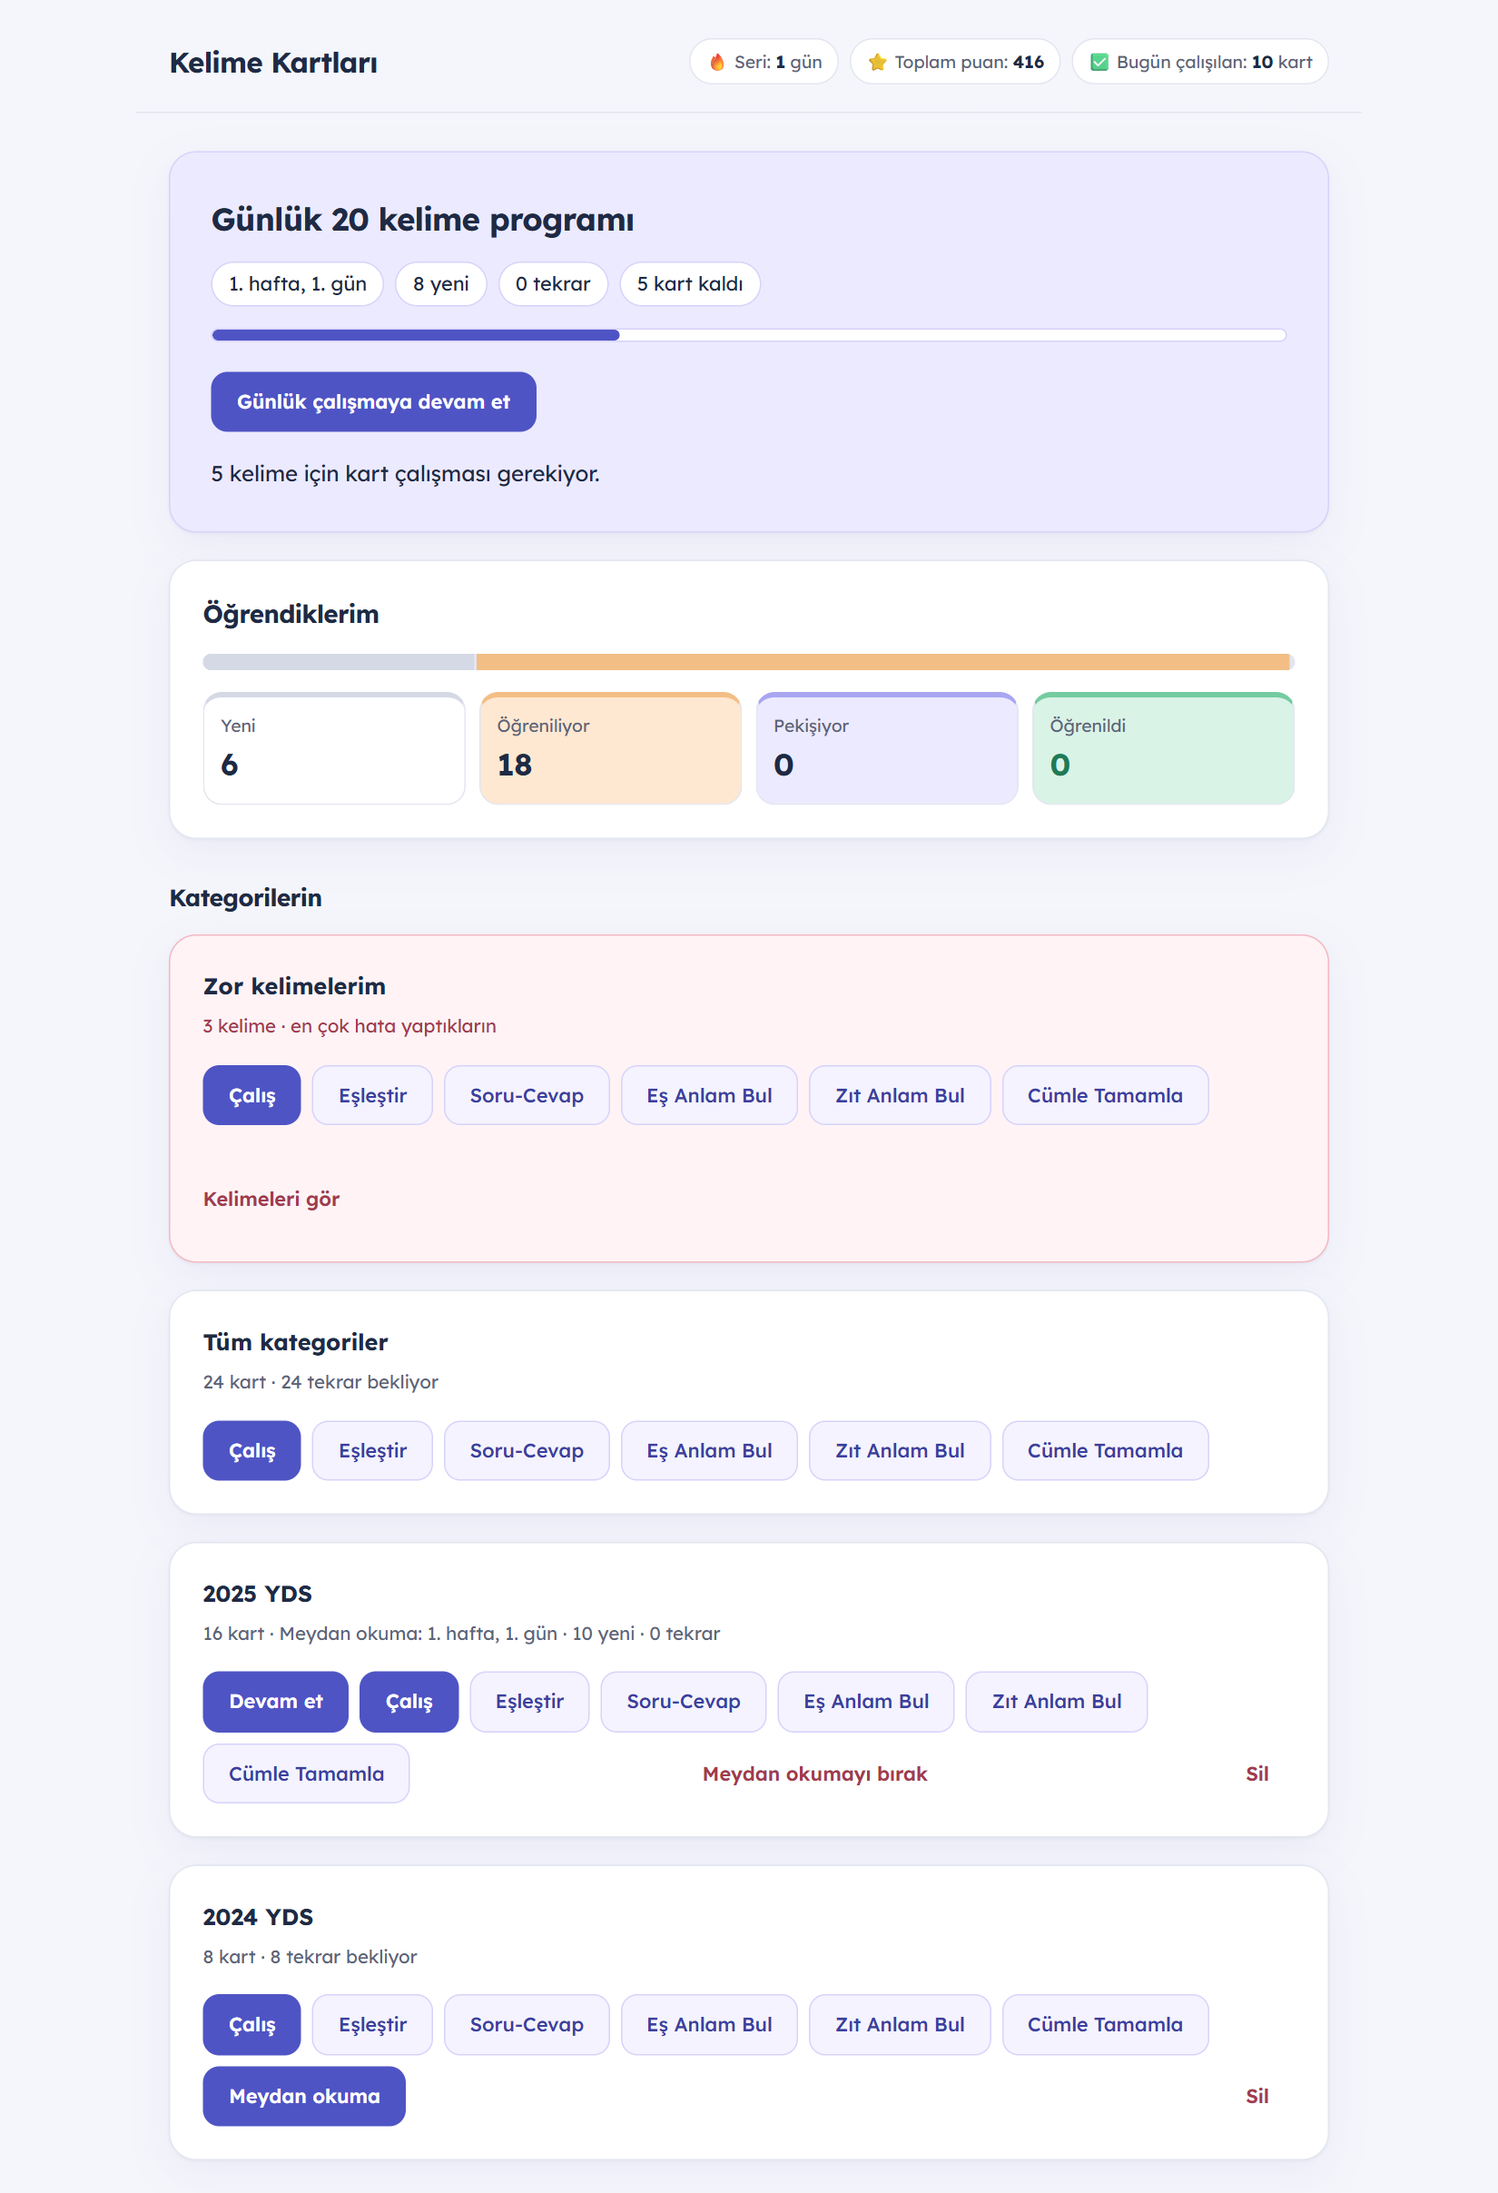
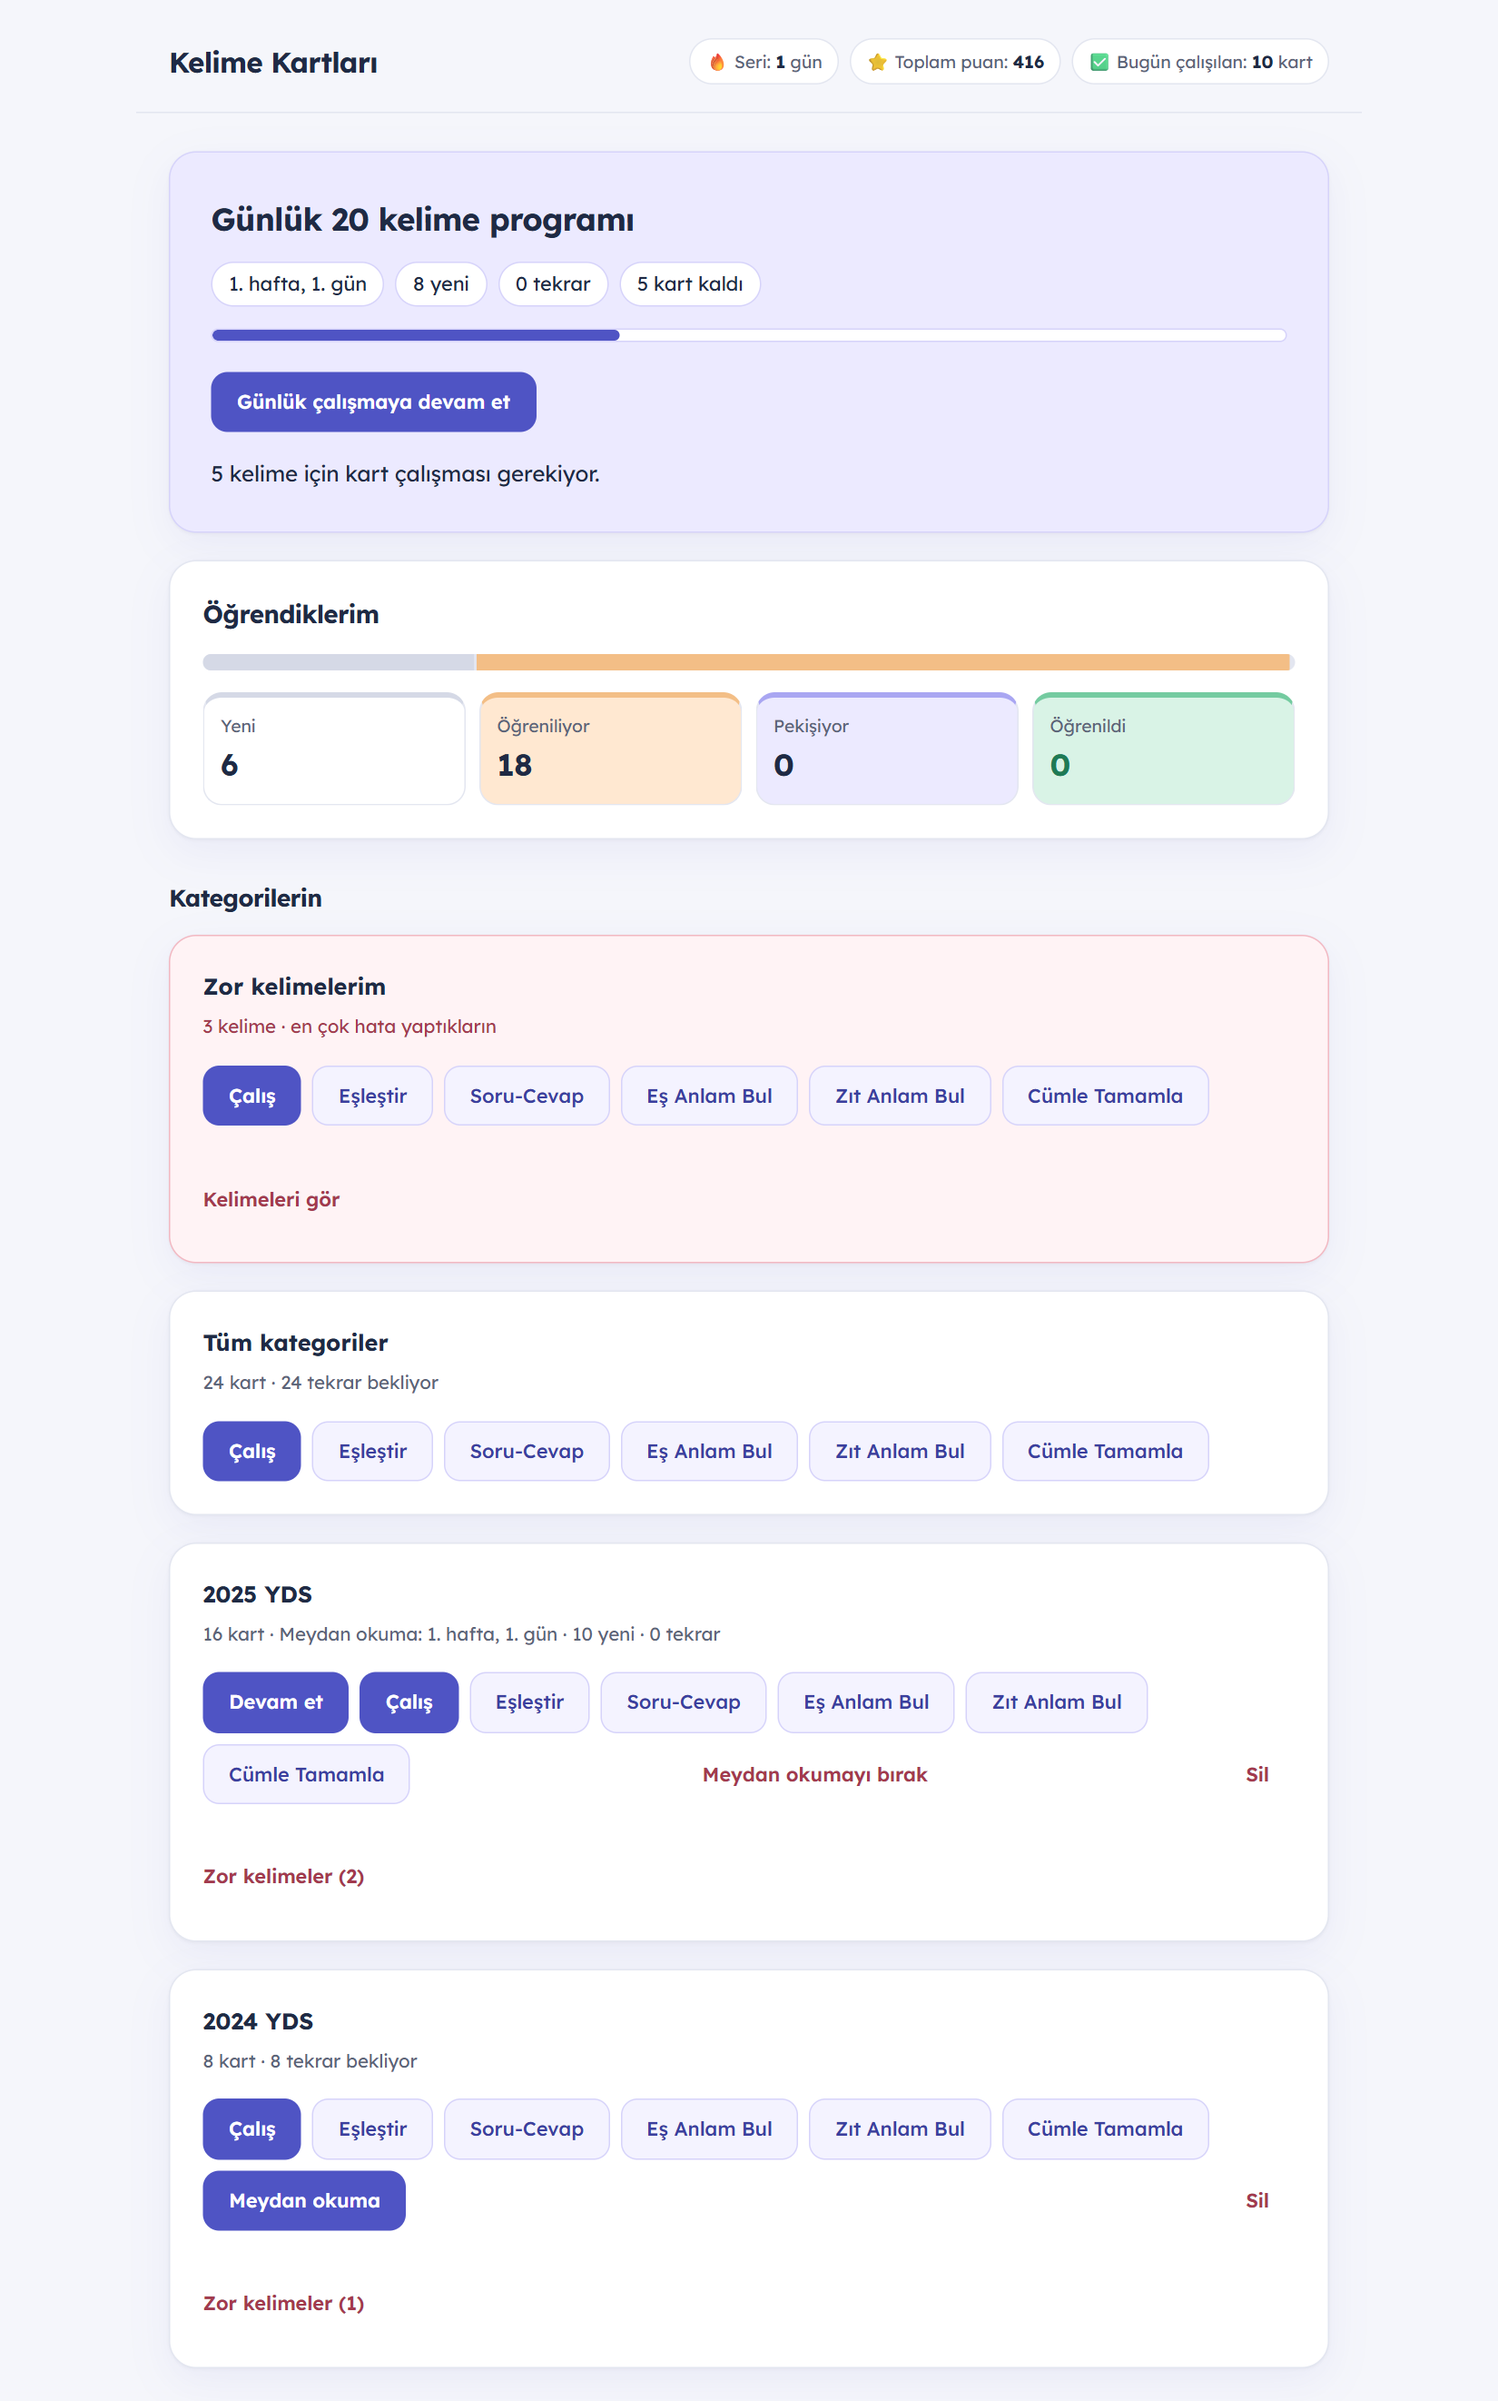
Add a hard word list to each category

diff --git a/src/js/core/store.js b/src/js/core/store.js
@@ -33,7 +33,8 @@
   // Mistake score: each difficulty grows on errors (+2, "hard" +1) and shrinks on correct answers (-1).
   store.difficulty = card => (card.cardDifficulty || 0) + (card.quizDifficulty || 0) +
     (card.matchDifficulty || 0) + (card.sentenceDifficulty || 0);
-  store.hardCards = () => store.allCards()
+  // All hard words, or only those of one category.
+  store.hardCards = (deck = null) => (deck === null ? store.allCards() : store.data.decks[deck] || [])
     .filter(card => store.difficulty(card) >= HARD_MIN_SCORE)
     .sort((a, b) => store.difficulty(b) - store.difficulty(a))
     .slice(0, HARD_LIMIT);
@@ -55,9 +56,17 @@
   });
   store.hasWord = (deckName, en, except = null) => (store.data.decks[deckName] || [])
     .some(card => card !== except && card.en.toLowerCase() === en.toLowerCase());
+  // A category's hard words use the scope "__hard__:<category>".
+  store.hardScope = deck => HARD_SCOPE + ':' + deck;
+  store.hardDeckOf = scope => typeof scope === 'string' && scope.startsWith(HARD_SCOPE + ':')
+    ? scope.slice(HARD_SCOPE.length + 1) : null;
+  store.isHardScope = scope => scope === HARD_SCOPE || store.hardDeckOf(scope) !== null;
   store.cardsOf = name => name === HARD_SCOPE ? store.hardCards()
-    : name ? store.data.decks[name] || [] : store.allCards();
-  store.scopeLabel = name => name === HARD_SCOPE ? 'Zor kelimelerim' : name || 'Tüm kategoriler';
+    : store.hardDeckOf(name) !== null ? store.hardCards(store.hardDeckOf(name))
+      : name ? store.data.decks[name] || [] : store.allCards();
+  store.scopeLabel = name => name === HARD_SCOPE ? 'Zor kelimelerim'
+    : store.hardDeckOf(name) !== null ? store.hardDeckOf(name) + ' · zor kelimeler'
+      : name || 'Tüm kategoriler';
   store.cardCat = card => Object.keys(store.data.decks)
     .find(name => store.data.decks[name].includes(card)) || '';
 })();

diff --git a/src/js/features/decks/decks.js b/src/js/features/decks/decks.js
@@ -73,6 +73,10 @@
         }, 'del');
       }
       if (scope === config.HARD_SCOPE)el.append(decks.hardWordList(cards));
+      if (deletable) {
+        const hard = store.hardCards(name);
+        if (hard.length)el.append(decks.hardWordList(hard, store.hardScope(name)));
+      }
       box.append(el);
     };
     const hard = store.hardCards();
@@ -82,11 +86,26 @@
   }
 
   // Collapsible list so the hard words can be read before practising them.
-  function hardWordList(cards) {
+  // With a scope (one category's hard words) it also carries that list's study and game buttons.
+  function hardWordList(cards, scope = null) {
     const details = document.createElement('details');
     details.className = 'hard-list';
     const summary = document.createElement('summary');
-    summary.textContent = 'Kelimeleri gör';
+    summary.textContent = scope ? 'Zor kelimeler (' + cards.length + ')' : 'Kelimeleri gör';
+    details.append(summary);
+    if (scope) {
+      const actions = document.createElement('div');
+      actions.className = 'deck-actions hard-actions';
+      for (const [label, start] of [['Çalış', study.startStudy], ['Eşleştir', matching.startMatch],
+        ['Soru-Cevap', quiz.startQuiz], ['Cümle Tamamla', sentence.startSentence]]) {
+        const button = document.createElement('button');
+        button.className = label === 'Çalış' ? '' : 'play';
+        button.textContent = label;
+        button.onclick = () => start(scope);
+        actions.append(button);
+      }
+      details.append(actions);
+    }
     const list = document.createElement('ul');
     cards.forEach(card => {
       const item = document.createElement('li');
@@ -102,7 +121,7 @@
       item.append(en, tr, score);
       list.append(item);
     });
-    details.append(summary, list);
+    details.append(list);
     return details;
   }
 

diff --git a/src/js/features/study/study.js b/src/js/features/study/study.js
@@ -16,7 +16,7 @@
       return;
     }
     const now = Date.now();
-    if (studyState.scope === config.HARD_SCOPE) {
+    if (store.isHardScope(studyState.scope)) {
       // Hard words are practised regardless of their free-study due date, hardest first.
       studyState.queue = study.studyCards();
     } else {

diff --git a/src/styles/tools.css b/src/styles/tools.css
@@ -18,6 +18,9 @@
   display: flex;
   align-items: center;
 }
+.hard-actions {
+  margin: 4px 0 12px;
+}
 .hard-list ul {
   list-style: none;
   padding: 0;

diff --git a/README.md b/README.md
@@ -28,7 +28,7 @@ Kurulum, sunucu veya hesap gerekmez: `index.html` dosyasını tarayıcıda açma
 - Günlük 20 kelimelik program: 1, 3, 7, 14 ve 30 gün aralıklı tekrar, her hafta bir genel tekrar günü
 - Kategori meydan okuması: her kategori için günde 10 kelimelik ayrı program (örneğin `2025 YDS`, `2024 YDS`)
 - Serbest çalışma: herhangi bir kategoriyi istediğin zaman Leitner kutularıyla çalışma
-- `Zor kelimelerim`: en çok hata yapılan 40 kelimeden otomatik oluşan kategori
+- `Zor kelimelerim`: en çok hata yapılan 40 kelimeden otomatik oluşan kategori; her kategorinin ayrıca kendi zor kelimeler listesi
 - `Öğrendiklerim` paneli: her kelimenin Yeni, Öğreniliyor, Pekişiyor veya Öğrenildi seviyesi
 
 **Oyunlar**
@@ -157,6 +157,8 @@ Her kelimenin bir hata puanı vardır. Puanı 2 ve üzeri olan en fazla 40 kelim
 - Hata puanı dört kaynağın toplamıdır: kartlar, Soru-Cevap, Eşleştirme ve Cümle Tamamla. Her kaynak 0–8 arasında tutulur.
 - Yanlış cevap ve `Bilemedim` +2, `Zorlandım` +1 ekler; doğru cevap 1 düşürür.
 - Kartlarda `Öğrendim`, puanı en yüksek kaynaktan düşürür. Böylece oyunlarda zorlanılan bir kelime kartlarla da listeden çıkarılabilir.
+
+Her kategorinin kendi zor kelimeleri de aynı kurallarla, kategori satırının altındaki `Zor kelimeler (N)` bölümünde listelenir. Bölüm açılınca yalnızca o kategorinin zor kelimeleriyle `Çalış`, `Eşleştir`, `Soru-Cevap` ve `Cümle Tamamla` oynanabilir. Zor kelime çalışmasında kartlar tekrar tarihini beklemeden, en zor kelimeden başlayarak gelir.
 
 ## Klavye kısayolları
 
